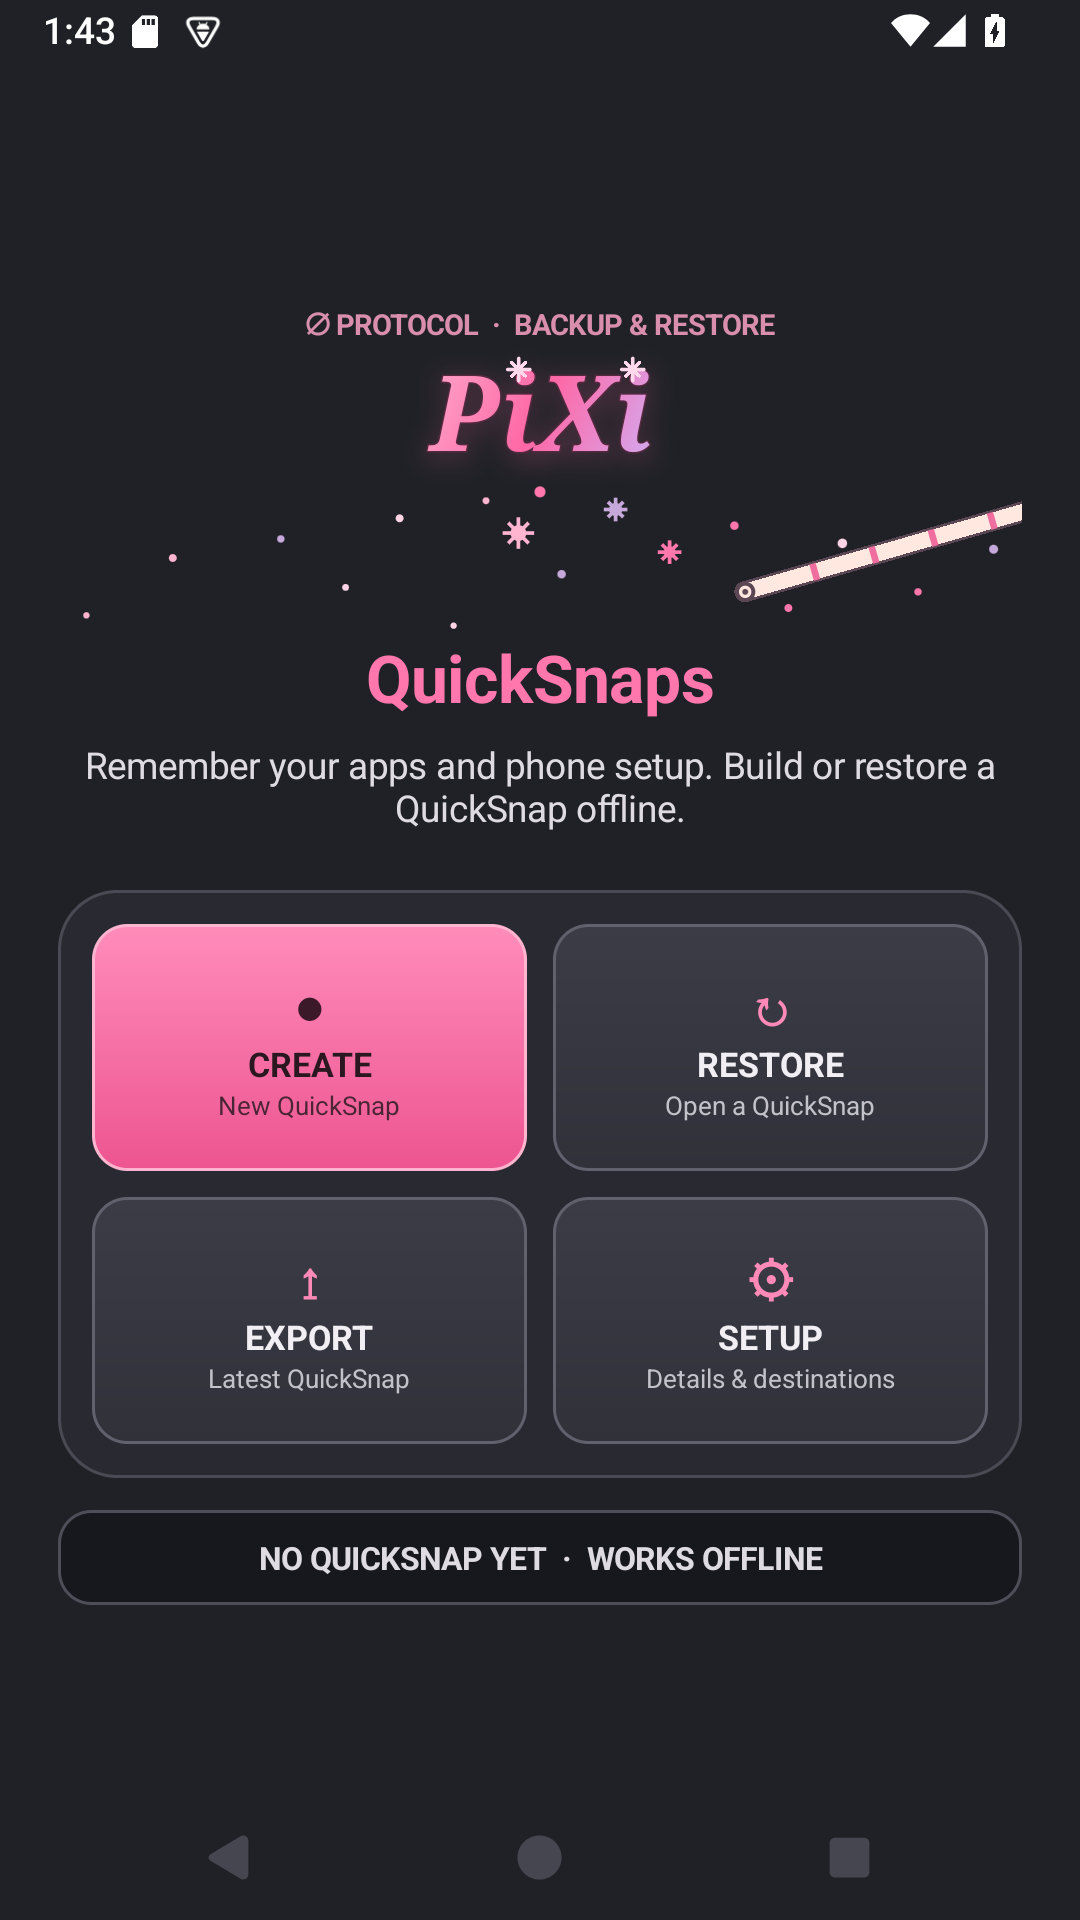
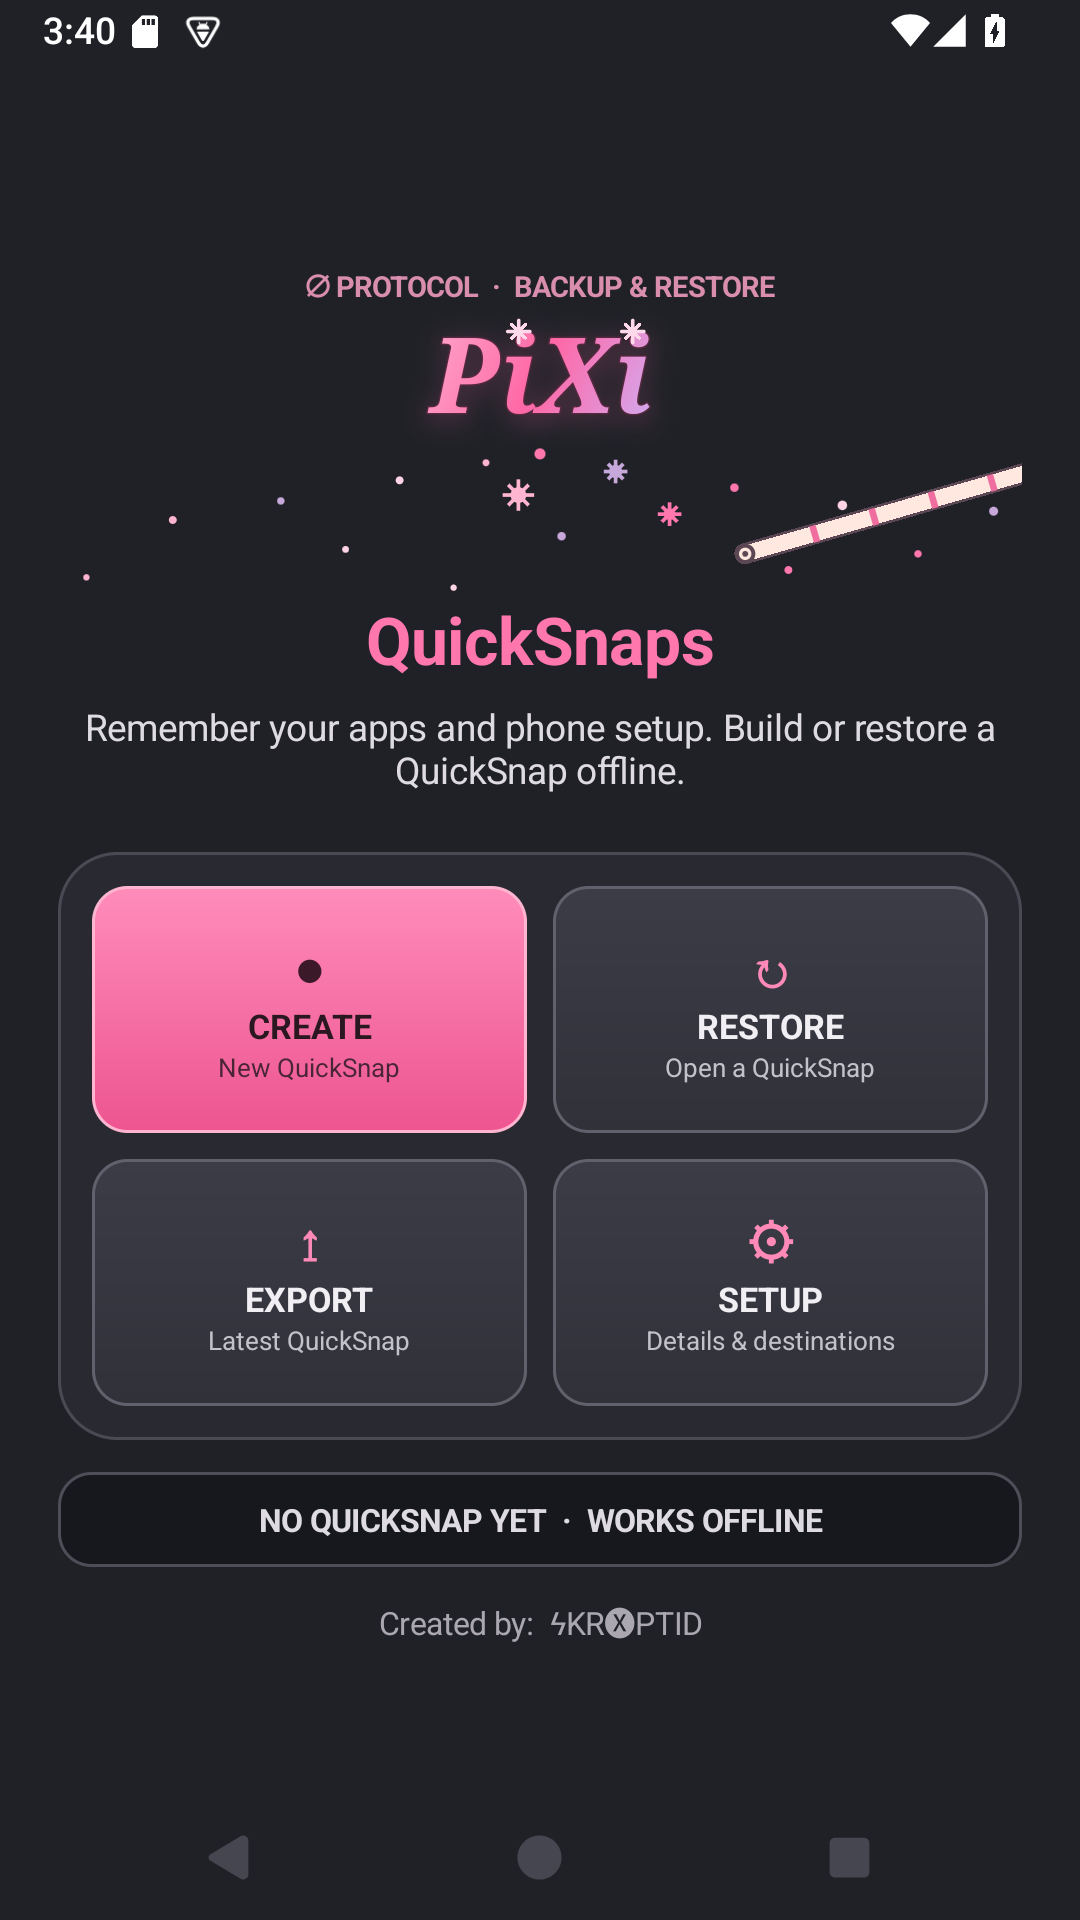
Add creator credit to QuickSnaps home screen

diff --git a/app/src/main/java/org/nullprotocol/pixisnapshot/MainActivity.java b/app/src/main/java/org/nullprotocol/pixisnapshot/MainActivity.java
@@ -120,6 +120,7 @@ public class MainActivity extends Activity {
         remote.addView(firstRow); remote.addView(secondRow); LinearLayout.LayoutParams remoteParams = new LinearLayout.LayoutParams(-1, -2); remoteParams.topMargin = dp(8); remoteParams.bottomMargin = dp(12); body.addView(remote, remoteParams);
         status = label("NO QUICKSNAP YET  ·  WORKS OFFLINE"); status.setGravity(Gravity.CENTER); status.setTextSize(12); status.setTypeface(null, Typeface.BOLD); status.setPadding(dp(10), dp(10), dp(10), dp(10));
         android.graphics.drawable.GradientDrawable display = new android.graphics.drawable.GradientDrawable(); display.setColor(0xff17181d); display.setCornerRadius(dp(12)); display.setStroke(dp(1), 0xff4d4e58); status.setBackground(display); body.addView(status);
+        TextView creator = label("Created by:  ϟKR🅧PTID"); creator.setGravity(Gravity.CENTER); creator.setTextSize(12); creator.setTextColor(0xffaaa7b1); creator.setPadding(0, dp(12), 0, 0); body.addView(creator);
         screen.addView(body, new LinearLayout.LayoutParams(-1, -2));
         ScrollView home = new ScrollView(this); home.setFillViewport(true); home.setBackgroundColor(bg); home.addView(screen, new ScrollView.LayoutParams(-1, -2)); setContentView(home);
     }

diff --git a/README.md b/README.md
@@ -4,11 +4,11 @@
 
 A small, fully open-source Android setup recorder from ∅ Protocol, aimed at de-Googled phones. Create a QuickSnap on the phone while offline; save it locally or send it directly to your own server. No Google account, Google Play Services, root, subscription, analytics, or developer-operated cloud service required.
 
-**0.1.1 is a public preview.** It provides an app inventory and assisted setup restore, with explicit user actions. It is not a full-device backup or an automatic replacement for Android's privileged restore services.
+**0.1.2 is a public preview.** It provides an app inventory and assisted setup restore, with explicit user actions. It is not a full-device backup or an automatic replacement for Android's privileged restore services.
 
-[Download the signed APK](https://github.com/sKRxPTiD/pixi-snapshot/releases/tag/v0.1.1) · [Privacy](PRIVACY.md) · [Release checks](docs/VALIDATION.md) · [MIT license](LICENSE)
+[Download the signed APK](https://github.com/sKRxPTiD/pixi-snapshot/releases/tag/v0.1.2) · [Privacy](PRIVACY.md) · [Release checks](docs/VALIDATION.md) · [MIT license](LICENSE)
 
-<img src="docs/home.png" alt="PiXi QuickSnaps home screen: pink fairy dust and four main buttons on charcoal gray" width="300" />
+<img src="docs/home.png" alt="PiXi QuickSnaps home screen: pink fairy dust, four main buttons, and creator credit on charcoal gray" width="300" />
 
 ## Four buttons
 

diff --git a/docs/VALIDATION.md b/docs/VALIDATION.md
@@ -1,5 +1,9 @@
 # Validation
 
+## 0.1.2 creator credit
+
+Signed release build and release lint passed. APK signature verified with the existing release certificate. The main screen was opened on the Android 15/API 35 emulator and visually checked; the requested creator credit appears centered below the status panel. The README screenshot was refreshed from that clean emulator screen. No backup, restore, or SFTP behavior changed, and the release was not installed on the physical phone.
+
 ## Run archive and lifecycle checks
 
 Use a disposable Android emulator. The custom instrumentation runner deliberately refuses physical devices because it resets the test app's preferences. It uses only platform instrumentation APIs; no Google test service is required.

diff --git a/CHANGELOG.md b/CHANGELOG.md
@@ -1,5 +1,9 @@
 # Changelog
 
+## 0.1.2 — 2026-10-25 — creator credit
+
+- Added the requested “Created by:  ϟKR🅧PTID” credit to the bottom of the main screen.
+
 ## 0.1.1 — 2026-10-25 — QuickSnaps naming update
 
 - Renamed the app to **PiXi QuickSnaps** and its backups to **QuickSnaps** throughout screens, dialogs, accessibility labels, notifications, privacy text, and documentation.

diff --git a/PRIVACY.md b/PRIVACY.md
@@ -1,6 +1,6 @@
 # Privacy and backup limits
 
-PiXi QuickSnaps 0.1.1 — effective October 25, 2026.
+PiXi QuickSnaps 0.1.2 — effective October 25, 2026.
 
 PiXi QuickSnaps works offline. It has no ads, analytics, telemetry, account system, or Google Play Services dependency. The developers do not receive your inventory, QuickSnaps, files, or SSH credentials.
 
